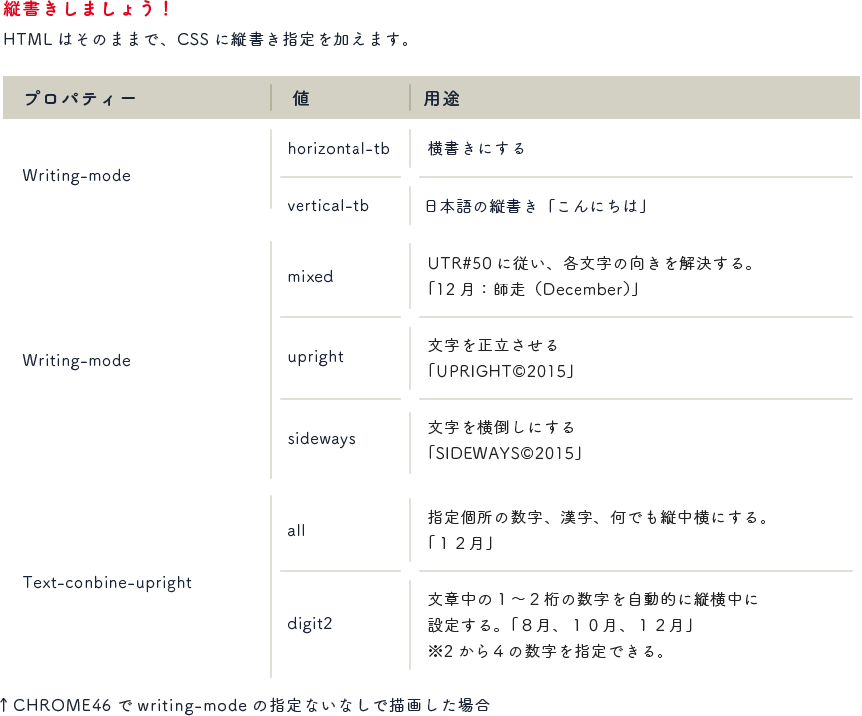
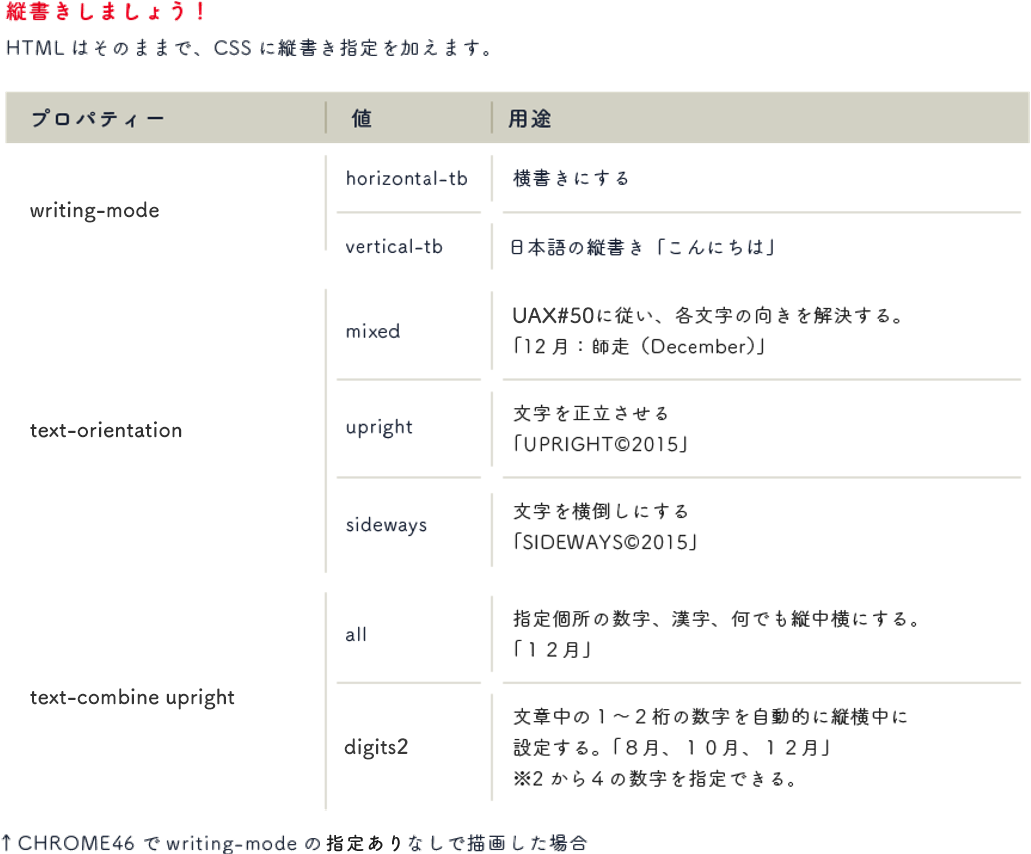
modified typos

diff --git a/explan1.html b/explan1.html
@@ -6,7 +6,7 @@
 <meta name="description" content="縦書きWeb普及委員会は、日本の文化である縦書きを利用したWebコンテンツの普及促進に取り組んでいます。">
 <meta name="keywords" content="" />
 
-<title>ＣＳＳ Ｗｒｉｔｉｎｇ Ｍｏｄｅの仕様解説│縦書きWeb普及委員会</title>
+<title>CSS Writing Modes の仕様解説│縦書きWeb普及委員会</title>
 
 <meta name="viewport" content="width=device-width, initial-scale=1">
 <meta http-equiv="Content-Style-Type" content="text/css" />
@@ -28,8 +28,8 @@
 <link rel="stylesheet" type="text/css" href="common/css/base.css" media="screen, projection, print" />
 <link rel="stylesheet" type="text/css" href="common/css/frame.css" media="screen, projection, print" />
 <link rel="stylesheet" type="text/css" href="css/explan.css" media="screen, projection, print" />
-<!-- <script type="text/javascript" src="//webfont.fontplus.jp/accessor/script/fontplus.js?u~KAt6a6kmU%3D&delay=2&timeout=60&aa=1&ab=1&ab=1" charset="utf-8"></script> -->
-<script type="text/javascript" src="//webfont.fontplus.jp/accessor/script/fontplus.js?dcA13TVgii4%3D&amp;aa=1" charset="utf-8"></script>
+<script type="text/javascript" src="//webfont.fontplus.jp/accessor/script/fontplus.js?u~KAt6a6kmU%3D&delay=2&timeout=60&aa=1&ab=1&ab=1" charset="utf-8"></script>
+<!-- <script type="text/javascript" src="//webfont.fontplus.jp/accessor/script/fontplus.js?dcA13TVgii4%3D&amp;aa=1" charset="utf-8"></script> -->
 <script type="text/javascript" src="common/js/jquery.min.js"></script>
 <script src="common/js/jquery.carouFredSel-6.0.4-packed.js" type="text/javascript"></script>
 <script type="text/javascript" src="common/js/common.js"></script>
@@ -72,17 +72,17 @@ ga('send', 'pageview');
 
 <h1>ＣＳＳ<br />
 Ｗｒｉｔｉｎｇ<br />
-Ｍｏｄｅの<br />
+Ｍｏｄｅｓの<br />
 仕様解説<br />
 </h1>
 
 <section><div class="section" id="SCT1">
 <h2>Writing Modes</h2>
 <div class="block">
-<p>CSS2では、<strong>direction</strong>や<strong>unicode-bidi</strong>プロパティが定義され、横書きの複雑なレイアウトを行うアラビア語などの双方向言語(BIDI)が扱えるようになっていました。CSS3では、テキストの進行方向に関する仕様は「Writing Modesモジュール」にまとめられ、BIDIに加えて縦書きへの対応などが追加されています。</p>
-<p>Writing Modesモジュールでは、行の進行方向、文字の進行方向、文字の向き、などの書字方向全般の仕様が定義されています。なお、Writing Modesの仕様は頻繁に改訂されています。</p>
-<p>この記事は、執筆時の最新のEditor’s Draft（2017年7月18日改訂）を解説したものです。<br />
-参照URL: <a href="https://drafts.csswg.org/css-writing-modes-3/" target="_blank">https://drafts.csswg.org/css-writing-modes-3/</a></p>
+<p>CSS2では、<strong>direction</strong>や<strong>unicode-bidi</strong>プロパティが定義され、横書きの複雑なレイアウトを行うアラビア語などの双方向言語(Bidi)が扱えるようになっていました。CSS3では、テキストの進行方向に関する仕様は「Writing Modesモジュール」にまとめられ、Bidiに加えて縦書きへの対応などが追加されています。</p>
+<p>Writing Modesモジュールでは、行の進行方向、文字の進行方向、文字の向き、などの書字方向全般の仕様が定義されています。</p>
+<p>この記事は、 2017年7月18日時点のEditor’s Draftを解説したものをベースに、2019年12月10日に勧告化された仕様にアップデートしたものです。<br />
+参照URL: <a href="https://www.w3.org/TR/css-writing-modes-3/" target="_blank">https://www.w3.org/TR/css-writing-modes-3/</a></p>
 <div class="image" id="S1_IMG1">
 <div class="div1"><img src="img/e1_sct1_img1.png" alt="" width="254" height="221" /></div>
 <div class="div2"><img src="img/e1_sct1_img2.png" alt="" width="265" height="209" /></div>
@@ -116,12 +116,12 @@ ga('send', 'pageview');
 <div class="block">
 <h3>テーブルの行と列</h3>
 <p><strong>writing-mode</strong>を指定すると、HTMLのほとんどの要素が回転します。 テーブルは、行と列の配置が入れ替わります。また、「高さ」と「幅」の概念も見た目通りになり、テーブルの「列」の大きさを変更したい場合、横書きでは「幅(width)」でしたが、縦書きでは「高さ(height)」になります。</p>
-<p>テーブルの他にも、縦横で位置関係が変換される要素があり、例えば、ルビの位置も縦書きでは文字の横に付くようになります インデントも、横書きでは右に食い込ませるように働いていたものが、縦書きでは下に食い込ませるように働きます。 例として、「↑Chrome 62で…」の箇所には4字のインデントを指定してあります。横書きでは右に、縦書きでは下に食い込んでいます。<br />
-一方、画像などの埋め込み要素のように、回転の対象外となるものもあります。 写真などがwriting-modeの変更によって天地の向きを変えると困るため、画像は回転しない仕様となっています。</p>
+<p>テーブルの他にも、縦横で位置関係が変換される要素があり、例えば、ルビの位置も縦書きでは文字の横に付くようになります。インデントも、横書きでは右に食い込ませるように働いていたものが、縦書きでは下に食い込ませるように働きます。 例として、「↑Chrome 62で…」の箇所には4字のインデントを指定してあります。横書きでは右に、縦書きでは下に食い込んでいます。<br />
+一方、画像などの埋め込み要素のように、回転の対象外となるものもあります。 写真などがwriting-modeの変更によって天地の向きを変えられると困るため、画像は回転しない仕様となっています。</p>
 </div>
 <div class="block">
 <h3>行の進行方向</h3>
-<p>横書きでは、左から右に進行します。 縦書きでは、上から下に進行します。 行の進行方向は、アラビア語などのBIDI要素に関連する場合に必要な要素で、日本語の縦書きを扱う場合にはあまり意識することはありません。 日本語の旧式の横書きのように、右から左へ進む横書きを実現するには、direction: rtlを指定し、さらにunicode-bidi: bidi-overrideを指定します。</p>
+<p>横書きでは、左から右に進行します。 縦書きでは、上から下に進行します。 行の進行方向は、アラビア語などのBidi要素に関連する場合に必要な要素で、日本語の縦書きを扱う場合にはあまり意識することはありません。 日本語の旧式の横書きのように、右から左へ進む横書きを実現するには、direction: rtlを指定し、さらにunicode-bidi: bidi-overrideを指定します。</p>
 <div class="code"><p><span class="s2">.ja_rtl</span> {<br /><strong>direction</strong>: <span class="s3">rtl</span>;<br /><strong>unicode-bidi</strong>: <span class="s3">bidi-override</span>;<br />}</p></div>
 <div class="code"><p>&lt;<span class="s4">p</span> <span class="s5">class=&quot;</span><span class="s2">ja_rtl</span><span class="s5">&quot;</span>&gt;東京駅ニテ列車ヲ待ツ&lt;<span class="s4">/p</span>&gt;</p></div>
 <div class="image" id="S1_IMG3">
@@ -137,7 +137,7 @@ ga('send', 'pageview');
 <div class="code"><p>&lt;<span class="s4">span</span> <span class="s5">class=&quot;</span><span class="s2">upright</span><span class="s5">&quot;</span>&gt;UPRIGHT©2017&lt;<span class="s4">/span</span>&gt;</p></div>
 <div class="code"><p><span class="s2">.sideways</span> {<strong>text-orientation</strong>:  <strong>sideways</strong>;}</p></div>
 <div class="code"><p>&lt;<span class="s4">span</span> <span class="s5">class=&quot;</span><span class="s2">sideways</span><span class="s5">&quot;</span>&gt;sideways © 2017&lt;<span class="s4">/span</span>&gt;</p></div>
-<p><strong>mixed</strong>のときに各文字が置かれる方向は、Unicodeの付属文書「UAX#50」(<a href="http://unicode.org/reports/tr50/" target="_blank">http://unicode.org/reports/tr50/</a>)を参考に決められています。 UAX#50でRの記号が振られている文字は横倒しとし、U・Tr・Tuの記号が振られている文字は原則的に正立(縦書きグリフがあれば使用する)という2分類になっています。</p>
+<p><strong>mixed</strong>のときに各文字が置かれる方向は、Unicodeの付属文書「UAX#50」(<a href="https://unicode.org/reports/tr50/" target="_blank">http://unicode.org/reports/tr50/</a>)を参考に決められています。 UAX#50でRの記号が振られている文字は横倒しとし、U・Tr・Tuの記号が振られている文字は原則的に正立(縦書きグリフがあれば使用する)という2分類になっています。</p>
 <ul>
 <li>英数字や矢印(←→)はR。90度回転して横倒しにする</li>
 <li>漢字や仮名、米印(※)や郵便番号(〒)などの記号はU。正立する。</li>
@@ -151,7 +151,7 @@ ga('send', 'pageview');
 <div class="code"><p><span class="s2">.tcy</span>  {text-combine-upright: <strong>all</strong>;}</p></div>
 <div class="code"><p>&lt;<span class="s4">span</span> <span class="s5">class=&quot;</span><span class="s2">tcy</span><span class="s5">&quot;</span>&gt;12&lt;<span class="s4">/span</span>&gt;月</p></div>
 <p>縦中横の指定は、横書きのレイアウト時には無視されます。 上の図を見ると、横書きの図では数字部分が違和感ないレイアウトとなっています。</p>
-<p>現在仕様策定中のCSS Writing Modes Level 4では、縦中横を文章に対して一括指定できる仕様があります。 広い範囲に<strong>text-combine-upright: digit 2</strong>のような指定をしておくと、登場する数字を縦中横に組みます。 2桁～4桁の数字を指定することができます。 実装は現状ではMicrosoftのInternet Explorer 11およびEdgeで、以下のように使用します。</p>
+<p>現在仕様策定中のCSS Writing Modes Level 4では、縦中横を文章に対して一括指定できる仕様があります。 広い範囲に<strong>text-combine-upright: digits 2</strong>のような指定をしておくと、登場する数字を縦中横に組みます。 2桁～4桁の数字を指定することができます。 実装は現状ではMicrosoftのInternet Explorer 11およびEdgeで、以下のように使用します。</p>
 <div class="code"><p><span class="s2">.tcy2</span>  { <br />
 　<strong>-ms-text-combine-horizontal</strong>: <strong>: digits 2</strong>;　/* IEは、このベンダープレフィックスで実装されています */<br />
 　<strong>-ms-text-combine-horizontal</strong>: <strong>: digits 2</strong>;　/* Edgeのみ実装されています。 */ <br />
@@ -165,12 +165,15 @@ ga('send', 'pageview');
 <div class="block">
 <h3>用語の再定義</h3>
 <p><strong>left</strong>、<strong>right</strong>、<strong>height</strong>、<strong>width</strong>は、物理方向を指します。 <strong>writing-mode</strong>を切り替えても、縦横が入れ替わらず、常に画面に向かってのサイズを示します。<strong></strong> writing-modeの変更に応じて指す方向を変えたい場合には、下記のような論理方向を指すプロパティを使用します。</p>
-<p><strong>inline-size</strong>または<strong>logical-width</strong><br />
-文字列の長さの方向を指す。つまり縦書きでは縦方向。</p>
-<p><strong>block-size</strong>または<strong>logical-height</strong><br />
-行の幅の方向を指す。つまり縦書きでは横方向。</p>
+<p><strong>inline-size</strong><br />
+文字列の長さの方向を指す。つまり縦書きでは縦方向。<br />
+参照URL：<a href="https://drafts.csswg.org/css-logical/#propdef-inline-size" target="_blank">https://drafts.csswg.org/css-logical/#propdef-inline-size</a></p>
+<p><strong>block-size</strong><br />
+行の幅の方向を指す。つまり縦書きでは横方向。<br />
+参照URL：<a href="https://drafts.csswg.org/css-logical/#propdef-inline-size" target="_blank">https://drafts.csswg.org/css-logical/#propdef-inline-size</a></p>
 <p>なお、<strong>line-height</strong>のように、<strong>height</strong>が含まれているものの、縦書きのときは行の横方向の幅を指すように縦横変換されるプロパティもあります。<br />
 適切に論理方向を指すプロパティでサイズ指定してあるHTML文書は、レイアウトを損うことなく、<strong>writing-mode</strong>の指定の変更だけで縦書き・横書きどちらでも対応します。</p>
+<p>論理方向についての詳細は、<a href="https://drafts.csswg.org/css-logical/" target="_blank">CSS Logical Properties and Values Level 1</a> を参考にしてください。</p>
 </div>
 </div></section>
 
